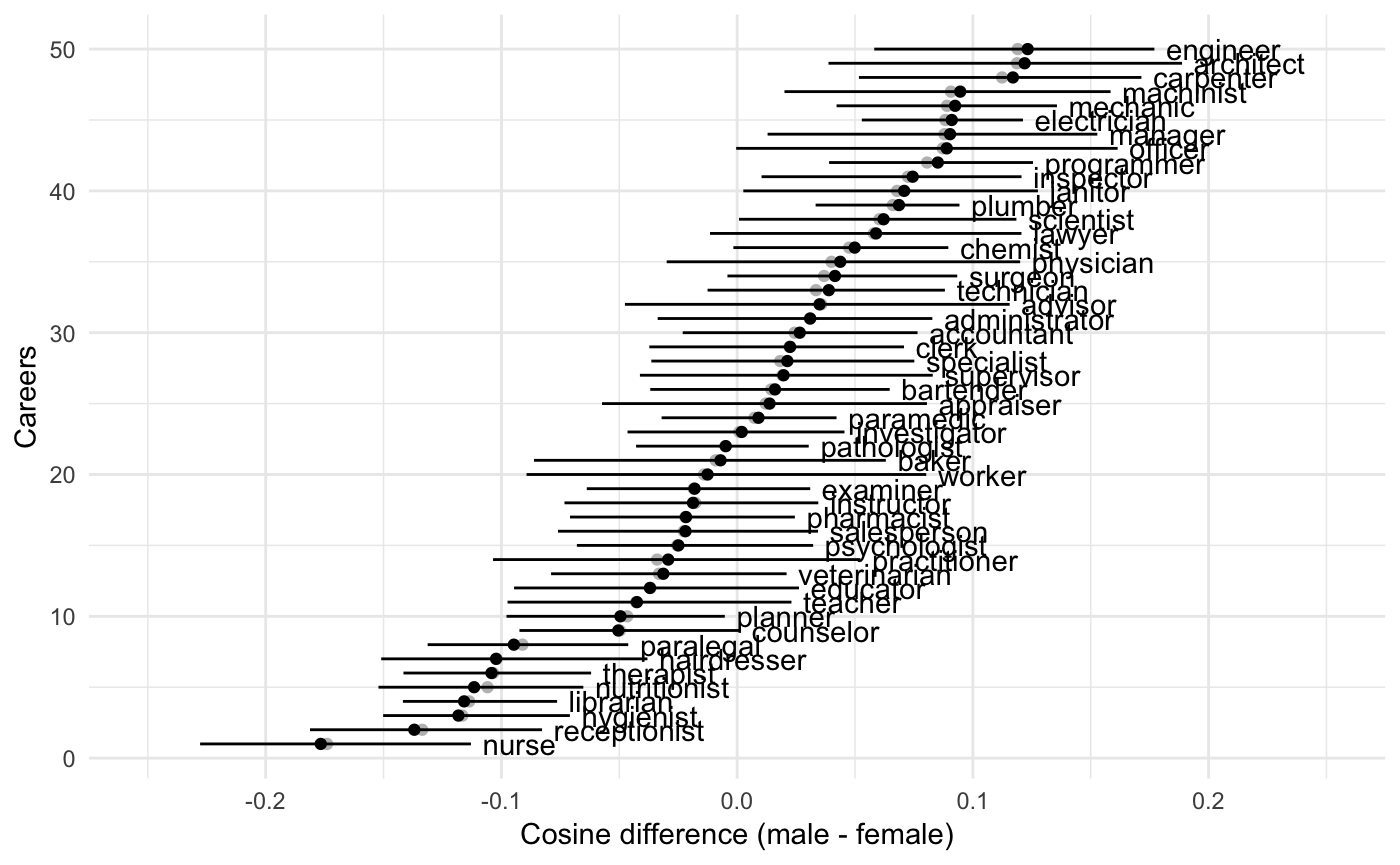
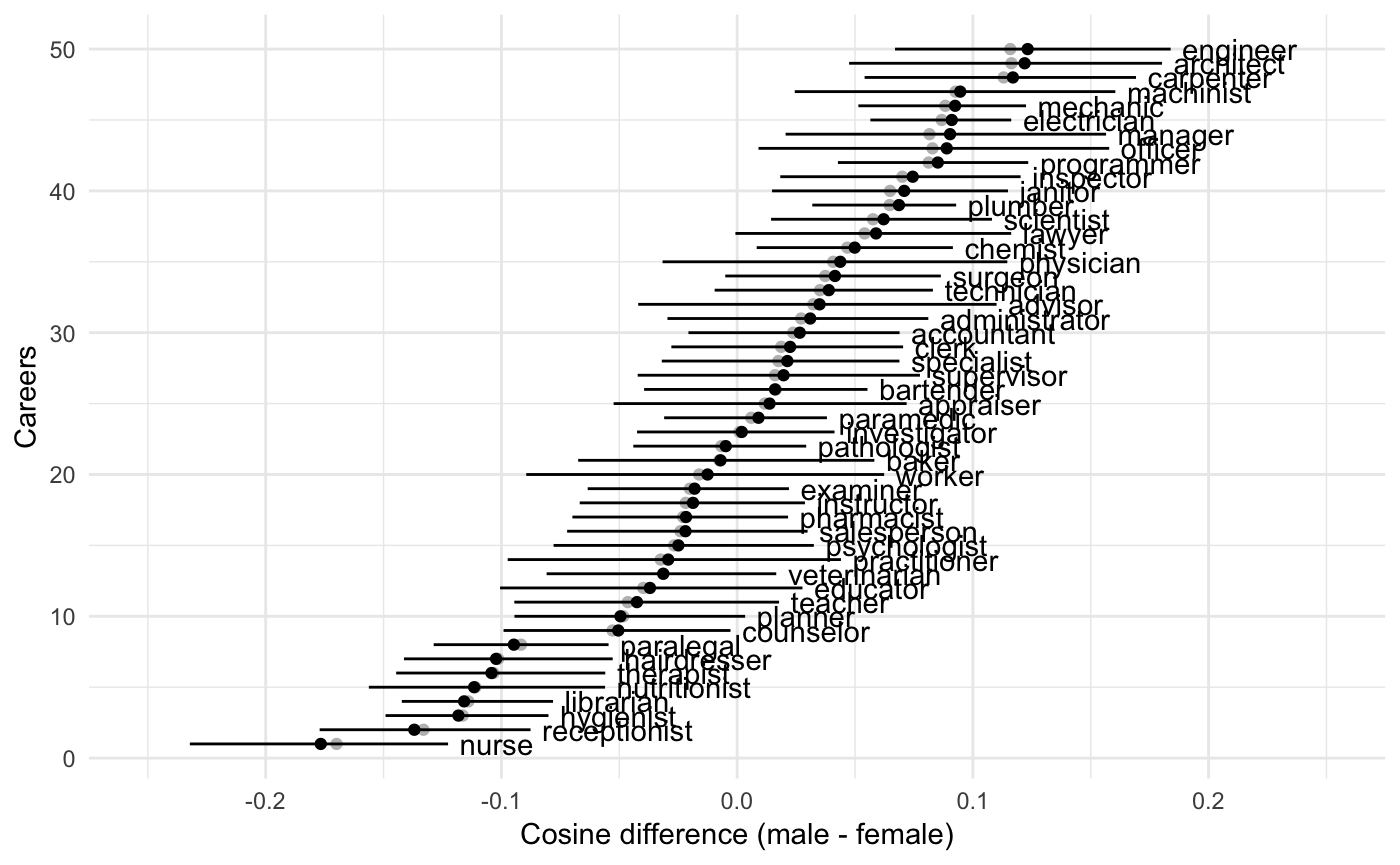
Travis started

diff --git a/docs/articles/replication_replication.html b/docs/articles/replication_replication.html
@@ -219,7 +219,7 @@ vecs &lt;-<span class="st"> </span><span class="kw"><a href="../reference/cbn_ge
 <span class="kw"><a href="../reference/weat_perm.html">weat_perm</a></span>(its, vecs, <span class="dt">x_name =</span> <span class="st">"Math"</span>, <span class="dt">y_name =</span> <span class="st">"Arts"</span>,
            <span class="dt">a_name =</span> <span class="st">"MaleTerms"</span>, <span class="dt">b_name =</span> <span class="st">"FemaleTerms"</span>, <span class="dv">1000</span>)
 <span class="co">#&gt;      S_xyab        d p_value</span>
-<span class="co">#&gt; 1 0.1989226 1.055015   0.021</span></code></pre></div>
+<span class="co">#&gt; 1 0.1989226 1.055015   0.023</span></code></pre></div>
 </div>
 <div id="science-vs-arts" class="section level3">
 <h3 class="hasAnchor">
@@ -236,7 +236,7 @@ vecs &lt;-<span class="st"> </span><span class="kw"><a href="../reference/cbn_ge
 <span class="kw"><a href="../reference/weat_perm.html">weat_perm</a></span>(its, vecs, <span class="dt">x_name =</span> <span class="st">"Science"</span>, <span class="dt">y_name =</span> <span class="st">"Arts"</span>, 
            <span class="dt">a_name =</span> <span class="st">"MaleTerms"</span>, <span class="dt">b_name =</span> <span class="st">"FemaleTerms"</span>, <span class="dv">1000</span>)
 <span class="co">#&gt;     S_xyab        d p_value</span>
-<span class="co">#&gt; 1 0.345604 1.237453   0.011</span></code></pre></div>
+<span class="co">#&gt; 1 0.345604 1.237453   0.003</span></code></pre></div>
 </div>
 <div id="mental-vs-physical-disease" class="section level3">
 <h3 class="hasAnchor">
@@ -253,7 +253,7 @@ vecs &lt;-<span class="st"> </span><span class="kw"><a href="../reference/cbn_ge
 <span class="kw"><a href="../reference/weat_perm.html">weat_perm</a></span>(its, vecs, <span class="dt">x_name =</span> <span class="st">"MentalDisease"</span>, <span class="dt">y_name =</span> <span class="st">"PhysicalDisease"</span>, 
           <span class="dt">a_name =</span> <span class="st">"Temporary"</span>, <span class="dt">b_name =</span> <span class="st">"Permanent"</span>, <span class="dv">1000</span>)
 <span class="co">#&gt;      S_xyab        d p_value</span>
-<span class="co">#&gt; 1 0.5051217 1.382755   0.009</span></code></pre></div>
+<span class="co">#&gt; 1 0.5051217 1.382755   0.001</span></code></pre></div>
 </div>
 <div id="mental-vs-physical-disease-1" class="section level3">
 <h3 class="hasAnchor">
@@ -270,7 +270,7 @@ vecs &lt;-<span class="st"> </span><span class="kw"><a href="../reference/cbn_ge
 <span class="kw"><a href="../reference/weat_perm.html">weat_perm</a></span>(its, vecs, <span class="dt">x_name =</span> <span class="st">"MentalDisease"</span>, <span class="dt">y_name =</span> <span class="st">"PhysicalDisease"</span>, 
           <span class="dt">a_name =</span> <span class="st">"Temporary"</span>, <span class="dt">b_name =</span> <span class="st">"Permanent"</span>, <span class="dv">1000</span>)
 <span class="co">#&gt;      S_xyab        d p_value</span>
-<span class="co">#&gt; 1 0.5051217 1.382755   0.002</span></code></pre></div>
+<span class="co">#&gt; 1 0.5051217 1.382755   0.005</span></code></pre></div>
 </div>
 <div id="young-vs-old-peoples-names" class="section level3">
 <h3 class="hasAnchor">
@@ -287,7 +287,7 @@ vecs &lt;-<span class="st"> </span><span class="kw"><a href="../reference/cbn_ge
 <span class="kw"><a href="../reference/weat_perm.html">weat_perm</a></span>(its, vecs, <span class="dt">x_name =</span> <span class="st">"YoungNames"</span>, <span class="dt">y_name =</span> <span class="st">"OldNames"</span>, 
           <span class="dt">a_name =</span> <span class="st">"Pleasant"</span>, <span class="dt">b_name =</span> <span class="st">"Unpleasant"</span>, <span class="dv">1000</span>)
 <span class="co">#&gt;      S_xyab        d p_value</span>
-<span class="co">#&gt; 1 0.3808673 1.212891   0.003</span></code></pre></div>
+<span class="co">#&gt; 1 0.3808673 1.212891   0.006</span></code></pre></div>
 </div>
 </div>
 <div id="wefat-figure-1" class="section level2">

diff --git a/docs/articles/alternative_statistics.html b/docs/articles/alternative_statistics.html
@@ -119,8 +119,8 @@ its_vecs &lt;-<span class="st"> </span><span class="kw"><a href="../reference/cb
                  <span class="dt">a_name =</span> <span class="st">"Pleasant"</span>, <span class="dt">b_name =</span> <span class="st">"Unpleasant"</span>,
                  <span class="dt">se.calc =</span> <span class="st">"quantile"</span>)
 res
-<span class="co">#&gt;        diff        lwr       upr    median</span>
-<span class="co">#&gt; 1 0.1547512 0.08961817 0.2028273 0.1498761</span></code></pre></div>
+<span class="co">#&gt;        diff       lwr       upr    median</span>
+<span class="co">#&gt; 1 0.1547512 0.1016231 0.1966195 0.1485927</span></code></pre></div>
 <p>Apparently flowers are more pleasant than insects.</p>
 </div>
 <div id="replicating-wefat" class="section level2">
@@ -135,12 +135,12 @@ its_vecs &lt;-<span class="st"> </span><span class="kw"><a href="../reference/cb
                   <span class="dt">se.calc =</span> <span class="st">"quantile"</span>)
 <span class="kw">head</span>(res)
 <span class="co">#&gt;        Careers       diff        lwr         upr     median</span>
-<span class="co">#&gt; 1        nurse -0.1766406 -0.2278316 -0.11293113 -0.1739475</span>
-<span class="co">#&gt; 2 receptionist -0.1369632 -0.1812125 -0.08276195 -0.1336042</span>
-<span class="co">#&gt; 3    hygienist -0.1182356 -0.1501744 -0.07096374 -0.1165833</span>
-<span class="co">#&gt; 4    librarian -0.1158335 -0.1417933 -0.07637999 -0.1136781</span>
-<span class="co">#&gt; 5 nutritionist -0.1115838 -0.1521555 -0.06525082 -0.1058892</span>
-<span class="co">#&gt; 6    therapist -0.1042064 -0.1415569 -0.06195673 -0.1035054</span></code></pre></div>
+<span class="co">#&gt; 1        nurse -0.1766406 -0.2321746 -0.12262488 -0.1699421</span>
+<span class="co">#&gt; 2 receptionist -0.1369632 -0.1771082 -0.08764670 -0.1330653</span>
+<span class="co">#&gt; 3    hygienist -0.1182356 -0.1491636 -0.08004055 -0.1164189</span>
+<span class="co">#&gt; 4    librarian -0.1158335 -0.1422554 -0.07809907 -0.1140293</span>
+<span class="co">#&gt; 5 nutritionist -0.1115838 -0.1562356 -0.05603441 -0.1110424</span>
+<span class="co">#&gt; 6    therapist -0.1042064 -0.1446527 -0.05594589 -0.1033222</span></code></pre></div>
 <p>This is a bit hard to interpret, so we’ll make a picture</p>
 <div class="sourceCode"><pre class="sourceCode r"><code class="sourceCode r"><span class="kw"><a href="http://www.rdocumentation.org/packages/ggplot2/topics/ggplot">ggplot</a></span>(res, <span class="kw"><a href="http://www.rdocumentation.org/packages/ggplot2/topics/aes">aes</a></span>(<span class="dt">x =</span> median, <span class="dt">y =</span> <span class="dv">1</span><span class="op">:</span><span class="kw">nrow</span>(res))) <span class="op">+</span>
 <span class="st">  </span><span class="kw"><a href="http://www.rdocumentation.org/packages/ggplot2/topics/geom_point">geom_point</a></span>(<span class="dt">col =</span> <span class="st">"grey"</span>) <span class="op">+</span>

diff --git a/docs/index.html b/docs/index.html
@@ -85,6 +85,7 @@
 <div class="page-header"><h1 class="hasAnchor">
 <a href="#cbn" class="anchor"></a>CBN</h1></div>
 <p>Tools for replicating and extending <a href="http://science.sciencemag.org/content/356/6334/183">Caliskan, Bryson, and Narayanan</a> (2017) ‘Semantics derived automatically from language corpora contain human-like biases’</p>
+<p><a href="https://travis-ci.org/conjugateprior/cbn"><img src="https://travis-ci.org/conjugateprior/cbn.svg?branch=master" alt="Travis-CI Build Status"></a></p>
 </div>
   </div>
 

diff --git a/README.md b/README.md
@@ -4,3 +4,4 @@ Tools for replicating and extending [Caliskan, Bryson, and Narayanan](http://sci
 'Semantics derived automatically from language corpora contain human-like 
 biases'
 
+[![Travis-CI Build Status](https://travis-ci.org/conjugateprior/cbn.svg?branch=master)](https://travis-ci.org/conjugateprior/cbn)
